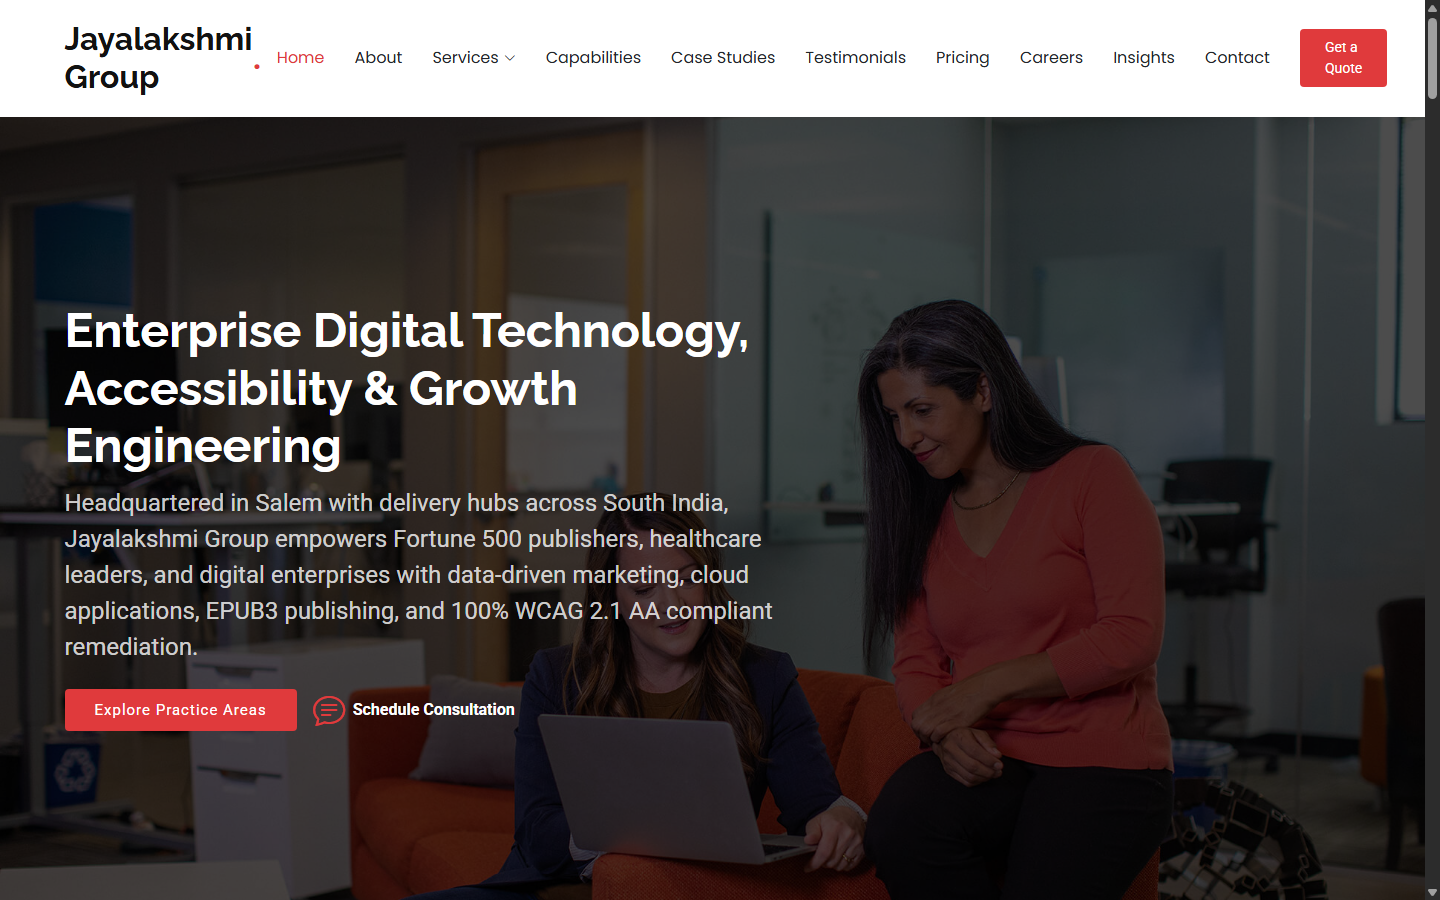
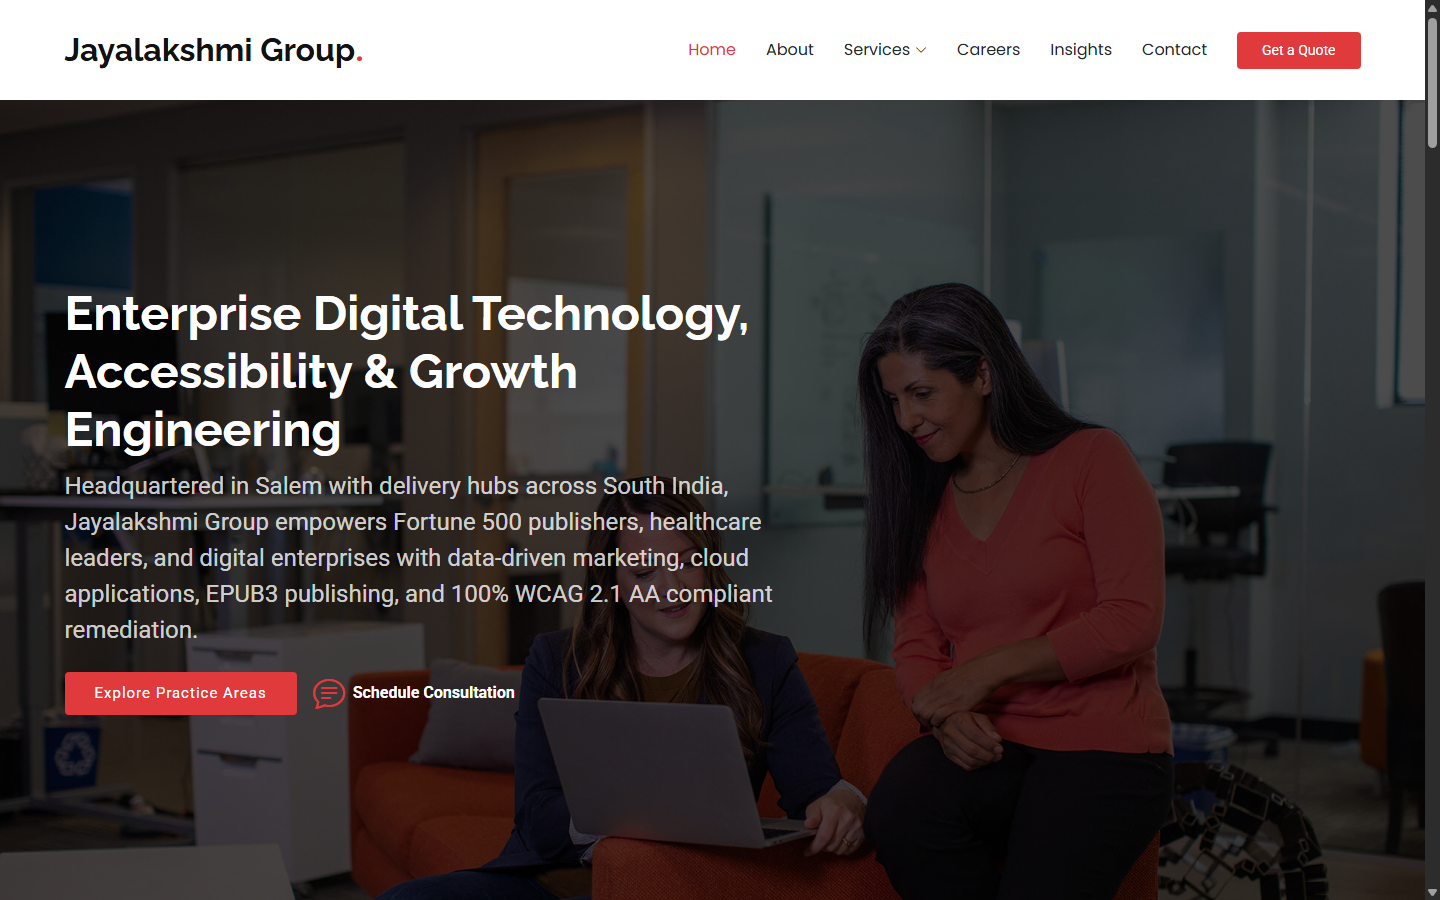
feat: update Jayalakshmi Group specs and screenshots reflecting removed sections

diff --git a/lib/data/projects.ts b/lib/data/projects.ts
@@ -497,7 +497,7 @@ export const projects: Project[] = [
     bullets: [
       "Customized and deployed an enterprise corporate platform based on the award-winning Presento Bootstrap 5 design framework",
       "Engineered 7 specialized practice divisions: Digital Marketing, Cloud Applications, UI/UX, EPUB3, PDF Remediation, 24/7 BPO Voice, and XML/JATS pipelines",
-      "Integrated interactive PureCounter metrics, touch-ready Swiper carousels, Isotope filterable case studies, and asynchronous RFP quote submission",
+      "Integrated interactive PureCounter metrics, touch-ready Swiper partner carousels, responsive practice catalogs, and asynchronous RFP quote submission",
       "Achieved 100% WCAG 2.1 AA and Section 508 accessibility compliance with semantic DOM structures and assistive tech validation",
     ],
     tech: ["Bootstrap 5.3", "Node.js", "JavaScript ES6+", "HTML5 Semantic", "PureCounter", "Swiper", "WCAG 2.1 AA", "REST APIs"],
@@ -512,7 +512,7 @@ export const projects: Project[] = [
       "Interactive RFP & Multi-Service Scope Quote Submission",
       "Careers Hub with 5 Openings & Direct Application Pipeline",
       "Global Contact Directory (Salem Headquarters, Chennai, Bangalore)",
-      "Technical Whitepapers & In-Depth Case Study Showcases",
+      "Technical Whitepapers & Corporate Practice Specifications",
     ],
     problem:
       "Jayalakshmi Group required a modern enterprise digital platform to showcase its multi-domain technology divisions, automate enterprise RFP estimates, manage high-volume inbound consultations, and oversee recruitment talent pools via a unified corporate portal.",
